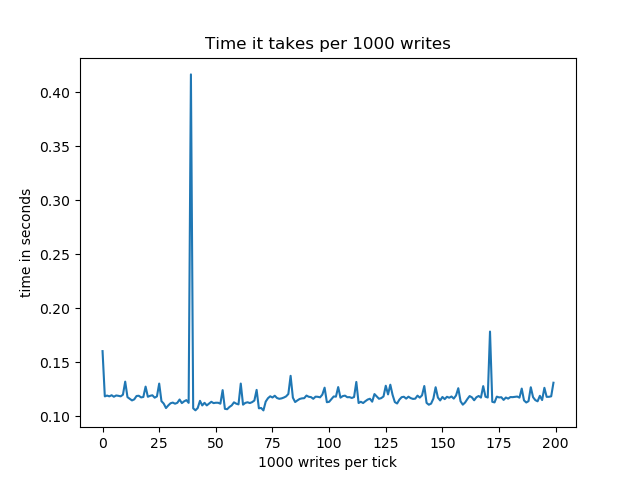
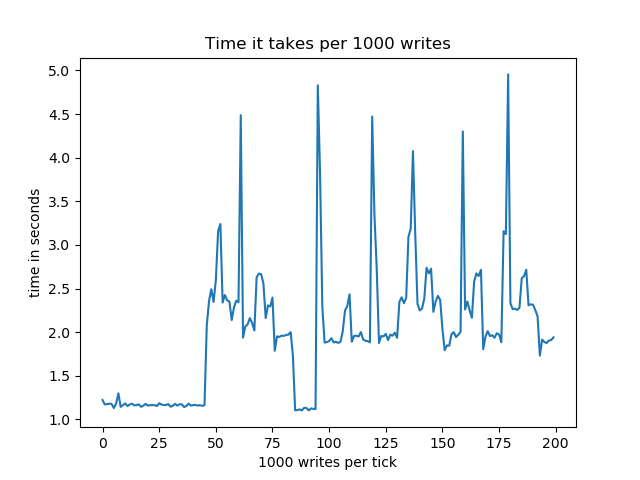
new image

diff --git a/workingTest.py b/workingTest.py
@@ -135,7 +135,7 @@ class tests(unittest.TestCase):
 		startup()
 		reps = 200
 		arr = [0]*reps
-		numWrites = 100
+		numWrites = 1000
 		t = list(range(reps))
 		for x in range(reps):
 			st = time.time()
